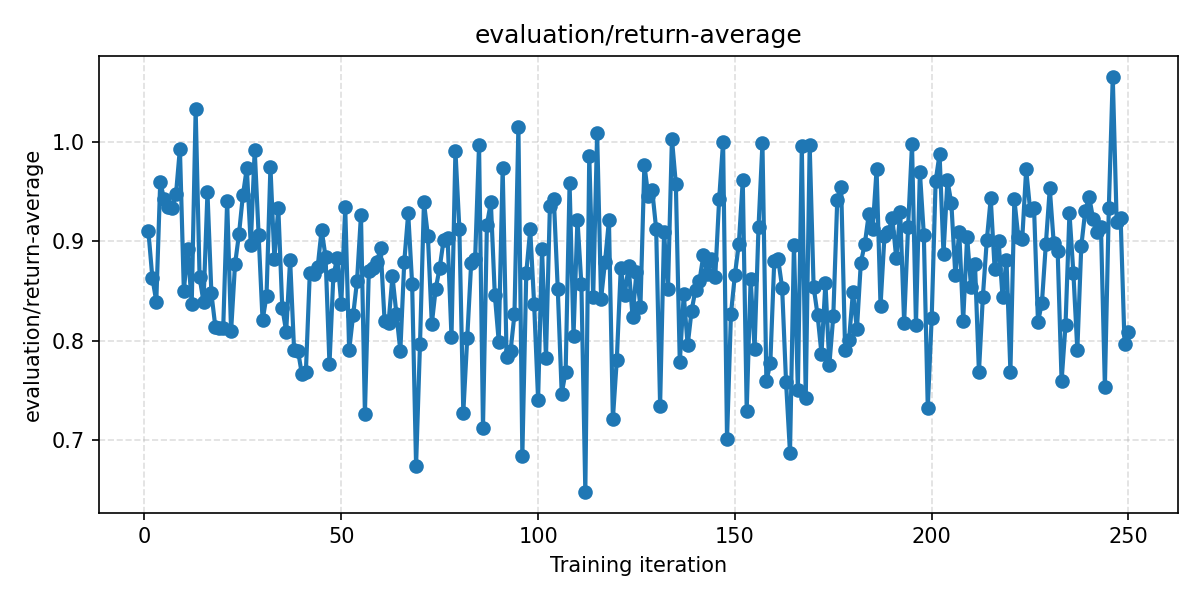
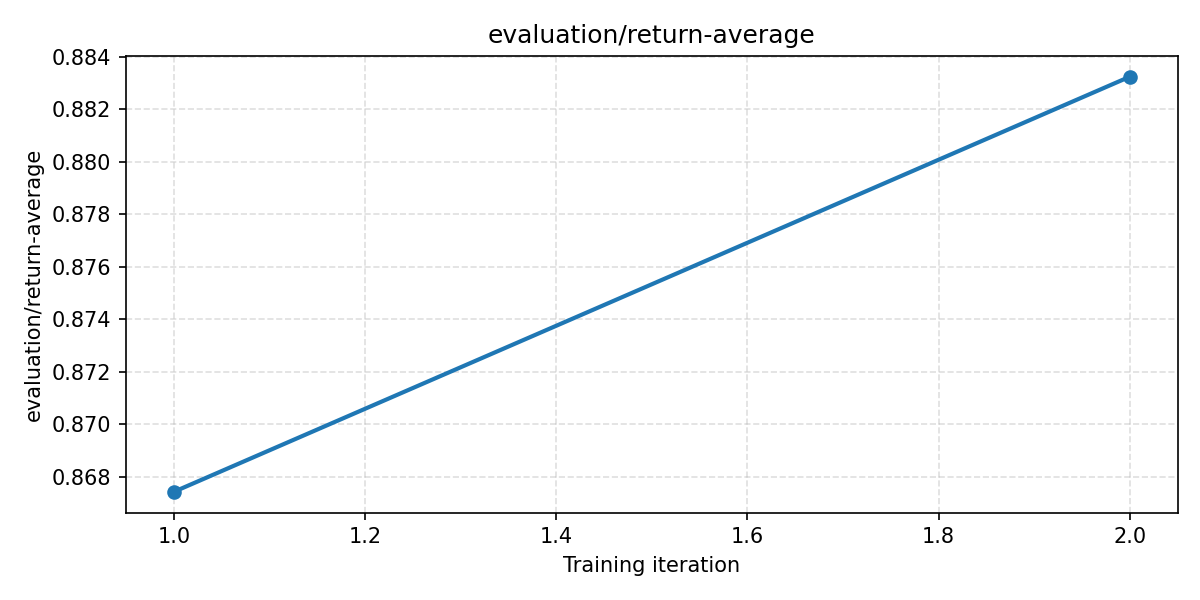
Update PV tracking configuration and documentation: increase training epochs to 300, adjust hyperparameters for improved performance, and enhance README with updated expected outputs and configuration details. Ensure consistency across scripts and clarify changes in training parameters.

diff --git a/examples/config/pv_tracking/0.py b/examples/config/pv_tracking/0.py
@@ -1,6 +1,6 @@
 # Bumped when training hyperparameters change; verify_training_config.py checks this.
-# Physical 11-D obs only (no legacy). Long-run production config.
-CONFIG_VERSION = 'pv_tracking_v3_physical_2026-05-24'
+# Physical 11-D obs only. v4 targets higher daily energy (beat sun tracker on hold-out).
+CONFIG_VERSION = 'pv_tracking_v4_beat_sun_2026-05-24'
 
 params = {
     'type': 'MBPO',
@@ -12,45 +12,49 @@ params = {
     'log_dir': '~/ray_mbpo/',
     'exp_name': 'pv_tracking',
 
-    # v3: 11-D physical obs; SAC entropy + more real env data (no legacy / no new obs dims).
-    # Run: python scripts/verify_training_config.py before mbpo run_local.
+    # v4 rationale (physical 11-D, same pipeline):
+    # - Sun tracker moves every step; learned policy was too static (entropy floor + motion penalty).
+    # - Lower movement_penalty (env): same formula for learned + baselines at eval (fair).
+    # - Higher min_alpha / target_entropy: more training stochasticity → less collapsed mean policy.
+    # - More real data (real_ratio), longer MBPO imagined rollouts (horizon within one day).
+    # - Longer train + ~100-day uniform exploration before policy learning.
     'kwargs': {
-        'n_epochs': 250,
-        # One PV day = 39 env steps (40 timestamps at 15 min UTC: 13:30 -> 23:15).
+        'n_epochs': 300,
         'epoch_length': 39,
         'train_every_n_steps': 1,
-        'n_train_repeat': 10,
+        'n_train_repeat': 15,
         'eval_render_mode': None,
-        'eval_n_episodes': 5,
+        'eval_n_episodes': 8,
         'eval_deterministic': True,
 
         'discount': 0.999,
         'tau': 5e-3,
         'reward_scale': 1.0,
 
-        'model_train_freq': 100,
+        'model_train_freq': 80,
         'model_retain_epochs': 5,
         'max_model_t': 120,
 
-        'rollout_batch_size': 300,
+        'rollout_batch_size': 400,
         'deterministic': False,
-        'num_networks': 5,
-        'num_elites': 3,
-        # More real-env SAC batches (less pessimistic imagined rollouts).
-        'real_ratio': 0.9,
-        # Higher floor + auto target entropy for 2-D actions (reduces late collapse).
-        'min_alpha': 0.15,
-        'max_model_rollout_length': 3,
-        'target_entropy': 'auto',
-        'rollout_schedule': [20, 150, 1, 3],
+        'num_networks': 7,
+        'num_elites': 4,
+
+        'real_ratio': 0.95,
+        'min_alpha': 0.2,
+        'max_model_rollout_length': 5,
+        # Slightly less negative than 'auto' (~-2 for 2-D) → keep policy entropy higher.
+        'target_entropy': -1.0,
+        # [warmup_epochs, ramp_epochs, min_rollout_len, max_rollout_len]
+        'rollout_schedule': [30, 220, 2, 5],
         'save_every_epochs': 5,
         'early_stop_patience': None,
         'monitor_metric': 'evaluation/return-average',
         'q_loss_warning_threshold': None,
         'q_loss_stop_threshold': None,
 
-        # ~64 random episodes before policy learning.
-        'n_initial_exploration_steps': 2500,
+        # ~100 random episode days before SAC (39 steps each).
+        'n_initial_exploration_steps': 3900,
     },
     'environment_kwargs': {
         'start_date': '2020-01-01',
@@ -60,11 +64,14 @@ params = {
         'periods': 40,
         'freq': '15min',
         'randomize_day': True,
+        # Match eval; same init for learned + baselines.
         'randomize_initial_orientation': False,
         'weather_source': 'random',
         'temperature': 23.0,
         'wind_speed': 2.0,
-        'movement_penalty': 0.0001,
+        # Was 0.0001 — sun pays movement every step; lower penalty allows competitive motion
+        # while keeping reward = energy_kwh - movement_cost for ALL methods (fair compare).
+        'movement_penalty': 0.00005,
         'observation_mode': 'physical',
     },
 }

diff --git a/examples/development/base.py b/examples/development/base.py
@@ -104,9 +104,9 @@ NUM_EPOCHS_PER_DOMAIN = {
     'Ant': int(3e3),
     'Humanoid': int(1e4),
     'Pendulum': 10,
-    # Production PV runs use examples/config/pv_tracking/0.py (250 epochs).
+    # Production PV runs use examples/config/pv_tracking/0.py (see config n_epochs).
     # Keep domain default aligned so partial merges are not stuck at 50 epochs.
-    'PVTracking': 250,
+    'PVTracking': 300,
 }
 
 ALGORITHM_PARAMS_PER_DOMAIN = {
@@ -116,7 +116,7 @@ ALGORITHM_PARAMS_PER_DOMAIN = {
                 'n_epochs': NUM_EPOCHS_PER_DOMAIN.get(
                     domain, DEFAULT_NUM_EPOCHS),
                 'n_initial_exploration_steps': (
-                    2500 if domain == 'PVTracking' else
+                    3900 if domain == 'PVTracking' else
                     MAX_PATH_LENGTH_PER_DOMAIN.get(
                         domain, DEFAULT_MAX_PATH_LENGTH
                     ) * 10),

diff --git a/scripts/verify_training_config.py b/scripts/verify_training_config.py
@@ -29,6 +29,8 @@ ALGO_KEYS = (
     'target_entropy',
     'real_ratio',
     'rollout_schedule',
+    'max_model_rollout_length',
+    'n_train_repeat',
 )
 ENV_KEYS = (
     'tz',

diff --git a/README.md b/README.md
@@ -205,7 +205,7 @@ mbpo run_example_dry examples.development \
   --gpus=0 --trial-gpus=0 --cpus=2 --trial-cpus=1
 ```
 
-**Pass:** log contains `start_time='13:30' periods=40 (39 steps)`, `observation_mode='physical'`, `n_epochs: 250`, `config_version: pv_tracking_v3_physical_2026-05-24`.
+**Pass:** log contains `start_time='13:30' periods=40 (39 steps)`, `observation_mode='physical'`, `n_epochs: 300`, `config_version: pv_tracking_v4_beat_sun_2026-05-24`.
 
 **Optional (pvlib / MBPO schedule):**
 
@@ -263,7 +263,7 @@ print('obs', e['observation_mode'], 'rand_init', e['randomize_initial_orientatio
 "
 ```
 
-**Expected:** `config_version pv_tracking_v3_physical_2026-05-24`, `n_epochs 250`, `min_alpha 0.15`, `real_ratio 0.9`, `target_entropy auto`, `obs physical`, `rand_init False`.
+**Expected:** `config_version pv_tracking_v4_beat_sun_2026-05-24`, `n_epochs 300`, `min_alpha 0.2`, `real_ratio 0.95`, `movement_penalty 5e-05`, `obs physical`, `rand_init False`.
 
 **Do not** judge the agent from training-time eval alone; always run Phase D on hold-out dates.
 
@@ -857,13 +857,16 @@ Phase E:  diagnose_tracking.py     → diagnostics/tracking_diagnosis.txt
 
 | Field | Value | Meaning |
 |-------|-------|---------|
-| `CONFIG_VERSION` | `pv_tracking_v3_physical_2026-05-24` | Logged in `params.json`; verify after train start |
-| `n_epochs` | `250` | Full long-run training budget |
+| `CONFIG_VERSION` | `pv_tracking_v4_beat_sun_2026-05-24` | Logged in `params.json`; verify after train start |
+| `n_epochs` | `300` | Long-run training (v4: beat sun tracker on energy) |
 | `epoch_length` | `39` | Real env steps per epoch |
-| `n_initial_exploration_steps` | `2500` | ~64 random episodes before policy learning |
-| `min_alpha` | `0.15` | SAC entropy floor (v3: slightly above v2’s 0.12) |
-| `target_entropy` | `'auto'` | SAC sets target from action dim (~−2 for 2-D) |
-| `real_ratio` | `0.9` | 90% real-env SAC batches vs model rollouts |
+| `n_initial_exploration_steps` | `3900` | ~100 random episode days before policy learning |
+| `min_alpha` | `0.2` | Higher SAC entropy floor (less mean-policy collapse) |
+| `target_entropy` | `-1.0` | More exploration than `auto` (~−2) for 2-D actions |
+| `real_ratio` | `0.95` | 95% real-env SAC batches vs model rollouts |
+| `max_model_rollout_length` | `5` | MBPO imagined rollout cap (within one day) |
+| `rollout_schedule` | `[30, 220, 2, 5]` | Ramp model rollout length 2→5 |
+| `movement_penalty` | `0.00005` | Same reward for learned + baselines at eval (fair) |
 | `rollout_schedule` | `[20, 150, 1, 3]` | MBPO imagined rollout length schedule |
 | `randomize_initial_orientation` | `False` | Train/eval both start 30°/180° |
 | `observation_mode` | `physical` | 11-D obs (see observation doc) |

diff --git a/docs/BASELINE_FAIRNESS.md b/docs/BASELINE_FAIRNESS.md
@@ -1,0 +1,35 @@
+# Baseline comparison fairness (PV tracking)
+
+All methods use the same `PVTrackingEnv.step()` path and reward:
+
+```text
+energy_kwh     = power_W × (15 min) / 1000
+movement_cost  = movement_penalty × (|Δtilt|/5° + |Δazimuth|/10°)
+reward         = energy_kwh - movement_cost
+```
+
+`movement_penalty` comes from `environment_kwargs` in `examples/config/pv_tracking/0.py` and is stored in trial `params.json`. Eval builds the env from that variant, so **learned, fixed, and sun_tracking** share the same penalty.
+
+## Sun tracking baseline
+
+Implemented in `scripts/eval_utils.py` → `make_baseline_rollout()`:
+
+- Targets `tilt = solar_zenith`, `azimuth = solar_azimuth` (from decoded obs).
+- Same incremental limits: ±5° tilt / ±10° azimuth per 15-min step.
+- Same normalized actions in `[-1, 1]²`, then `env.step(action)`.
+
+Not an oracle: no pvlib bypass, no infinite slew rate.
+
+## Eval pairing
+
+`scripts/evaluate_agent.py` uses `seed=rollout_index` for learned and each baseline so **date and weather** match. See `eval_scenario_confirmation.txt` in each `--outdir`.
+
+## Metrics
+
+| Report field | Meaning |
+|--------------|---------|
+| `total_energy_kwh` | Gross daily harvest (sum of step `energy_kwh`) |
+| `total_movement_cost` | Sum of step penalties |
+| `total_reward` | Net = energy − movement (training objective) |
+
+Compare **gross energy** for “maximize production”; compare **net reward** for “optimize under motion cost.”
